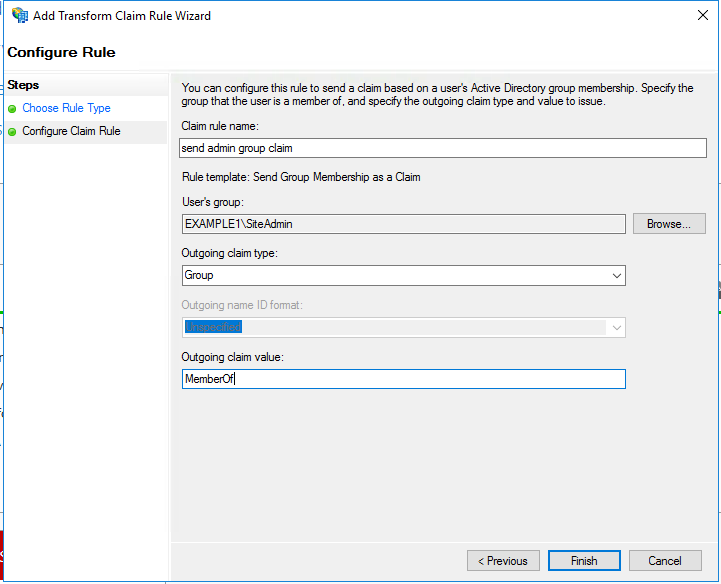
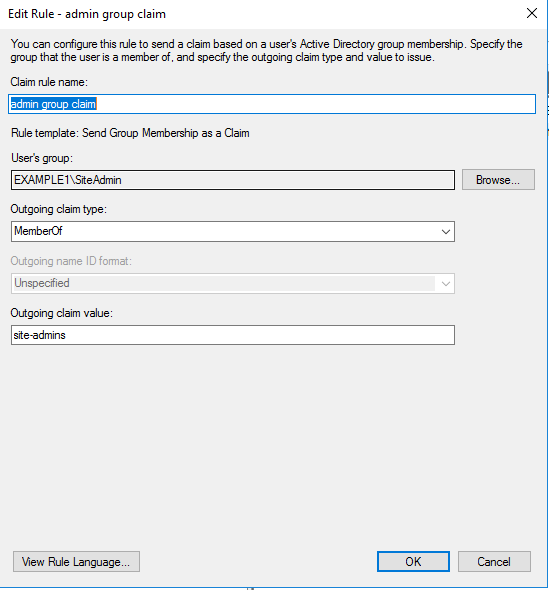
[PTFE] Fix screenshot and field values

Changed region(s): [[0.0, 0.0, 0.9599, 0.6781], [0.6503, 0.0, 1.0, 1.0], [0.0, 0.8938, 0.2477, 1.0]]

diff --git a/content/source/docs/enterprise/saml/identity-provider-configuration-adfs.html.md b/content/source/docs/enterprise/saml/identity-provider-configuration-adfs.html.md
@@ -93,9 +93,9 @@ This document assumes that you have already installed and configured ADFS and th
 7. Click "Add Rule", and then select "Send Group Membership as a Claim" from the `Claim rule template` dropdown. Click "Next".
 8. Click "Browse" and locate the AD User group that contains all PTFE admins.
    ![saml_26](./images/saml_26.png)
-  - Set `Outgoing claim type` to `Group`. 
-  - Set `Outgoing claim value` to `MemberOf`.
-   ![saml_27](./images/saml_27.png)
+  - Set `Outgoing claim type` to `MemberOf`. 
+  - Set `Outgoing claim value` to `site-admins`.
+      ![saml_27](./images/saml_27.png)
 9. Click "Finish".
 
 ## Test configured SAML login
